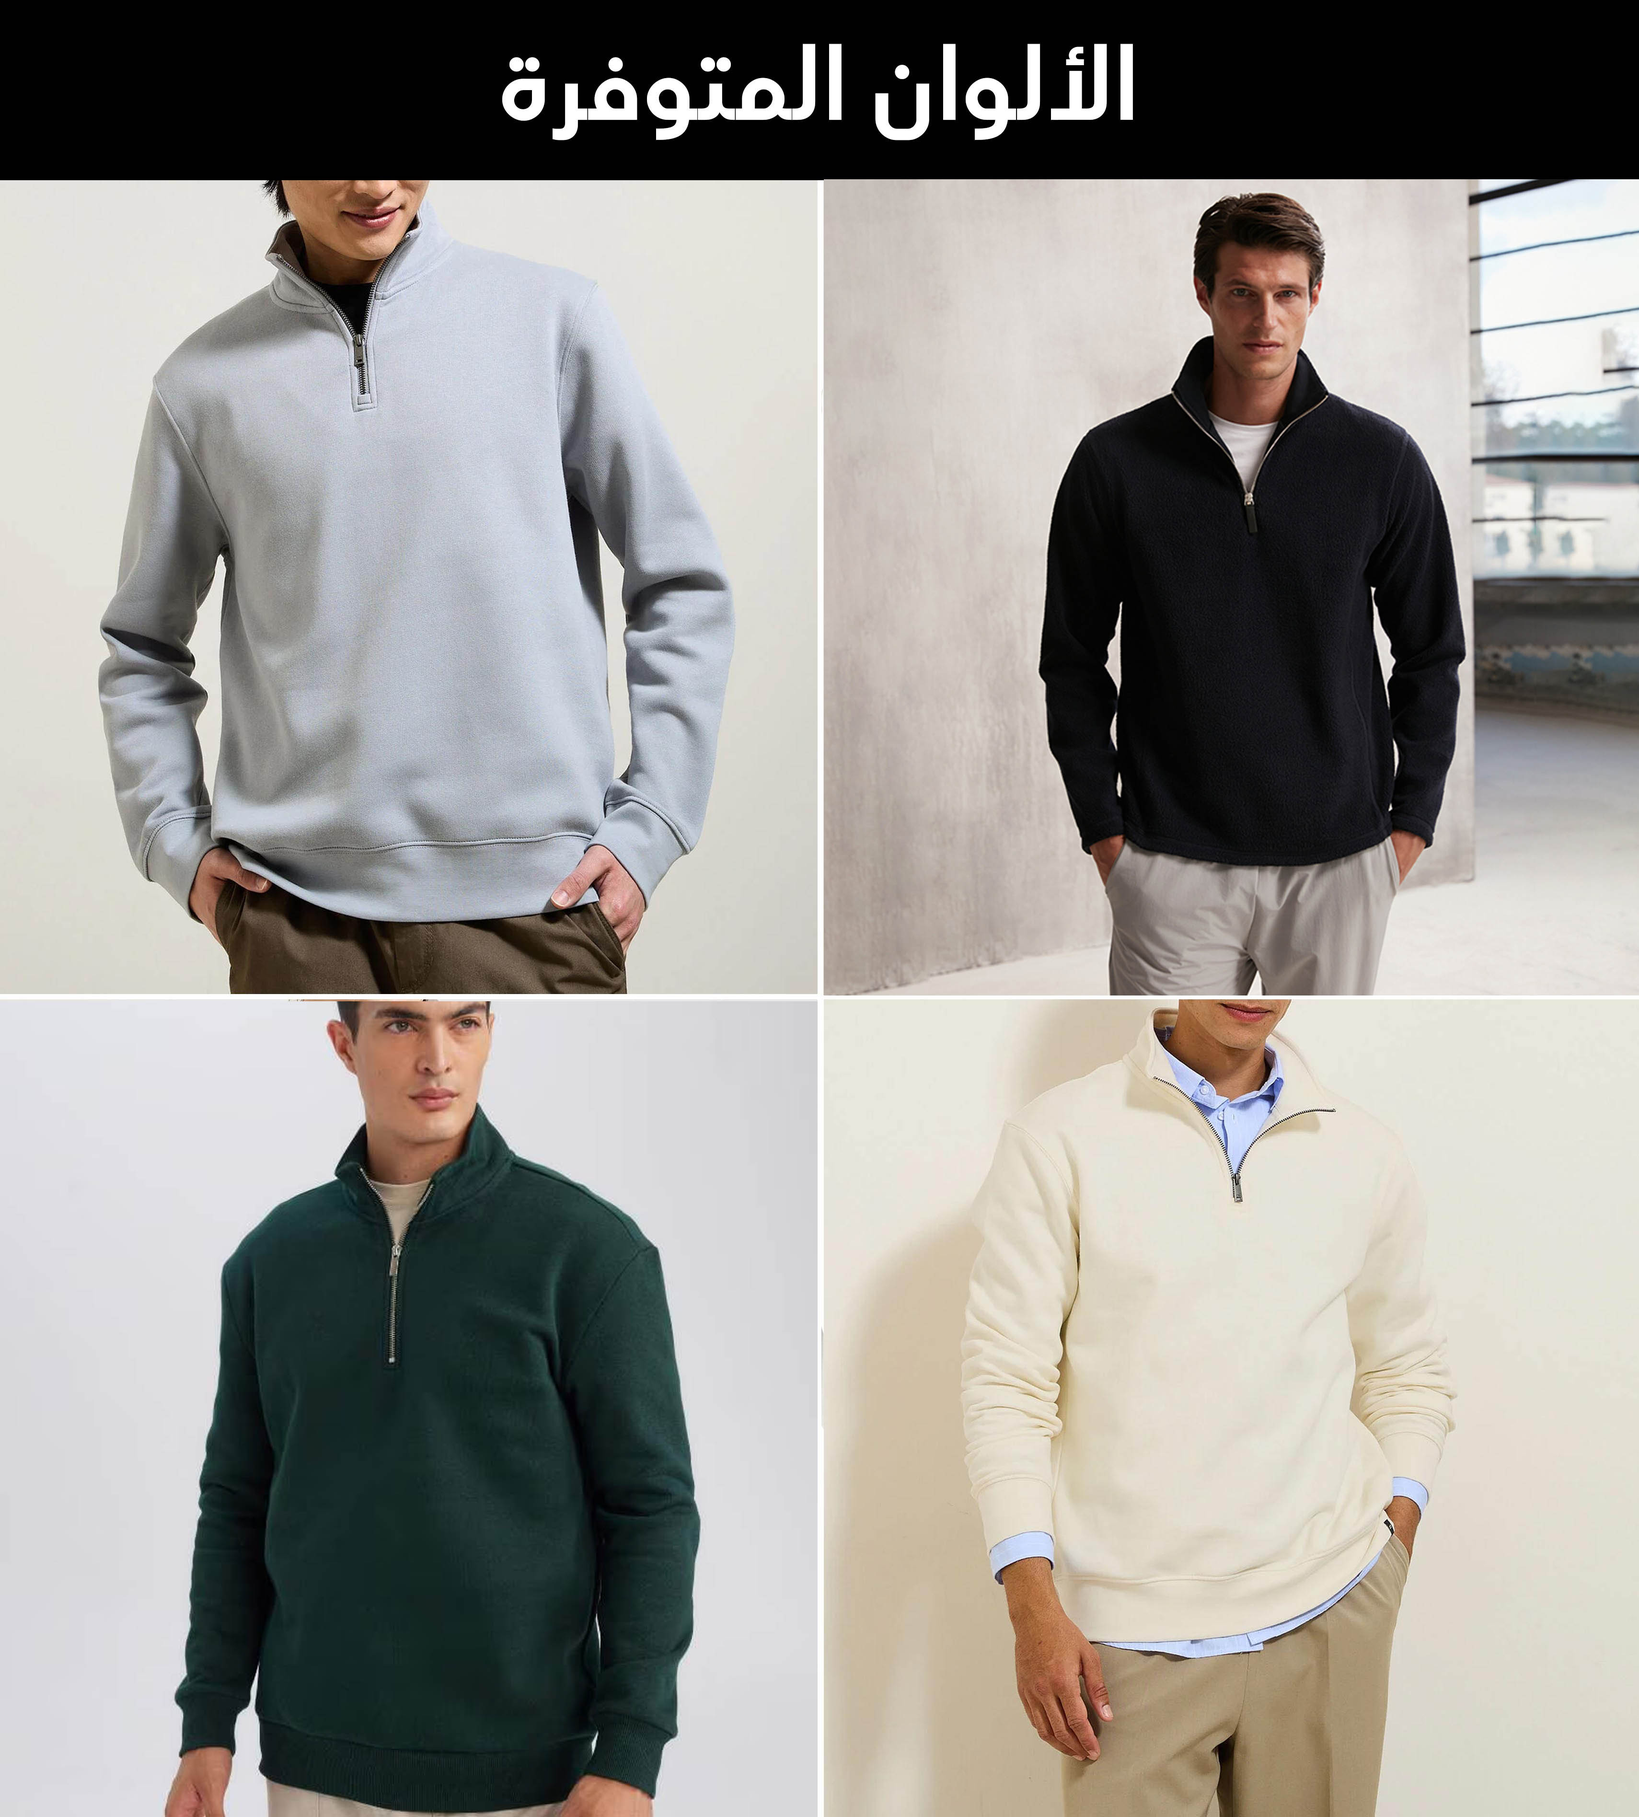
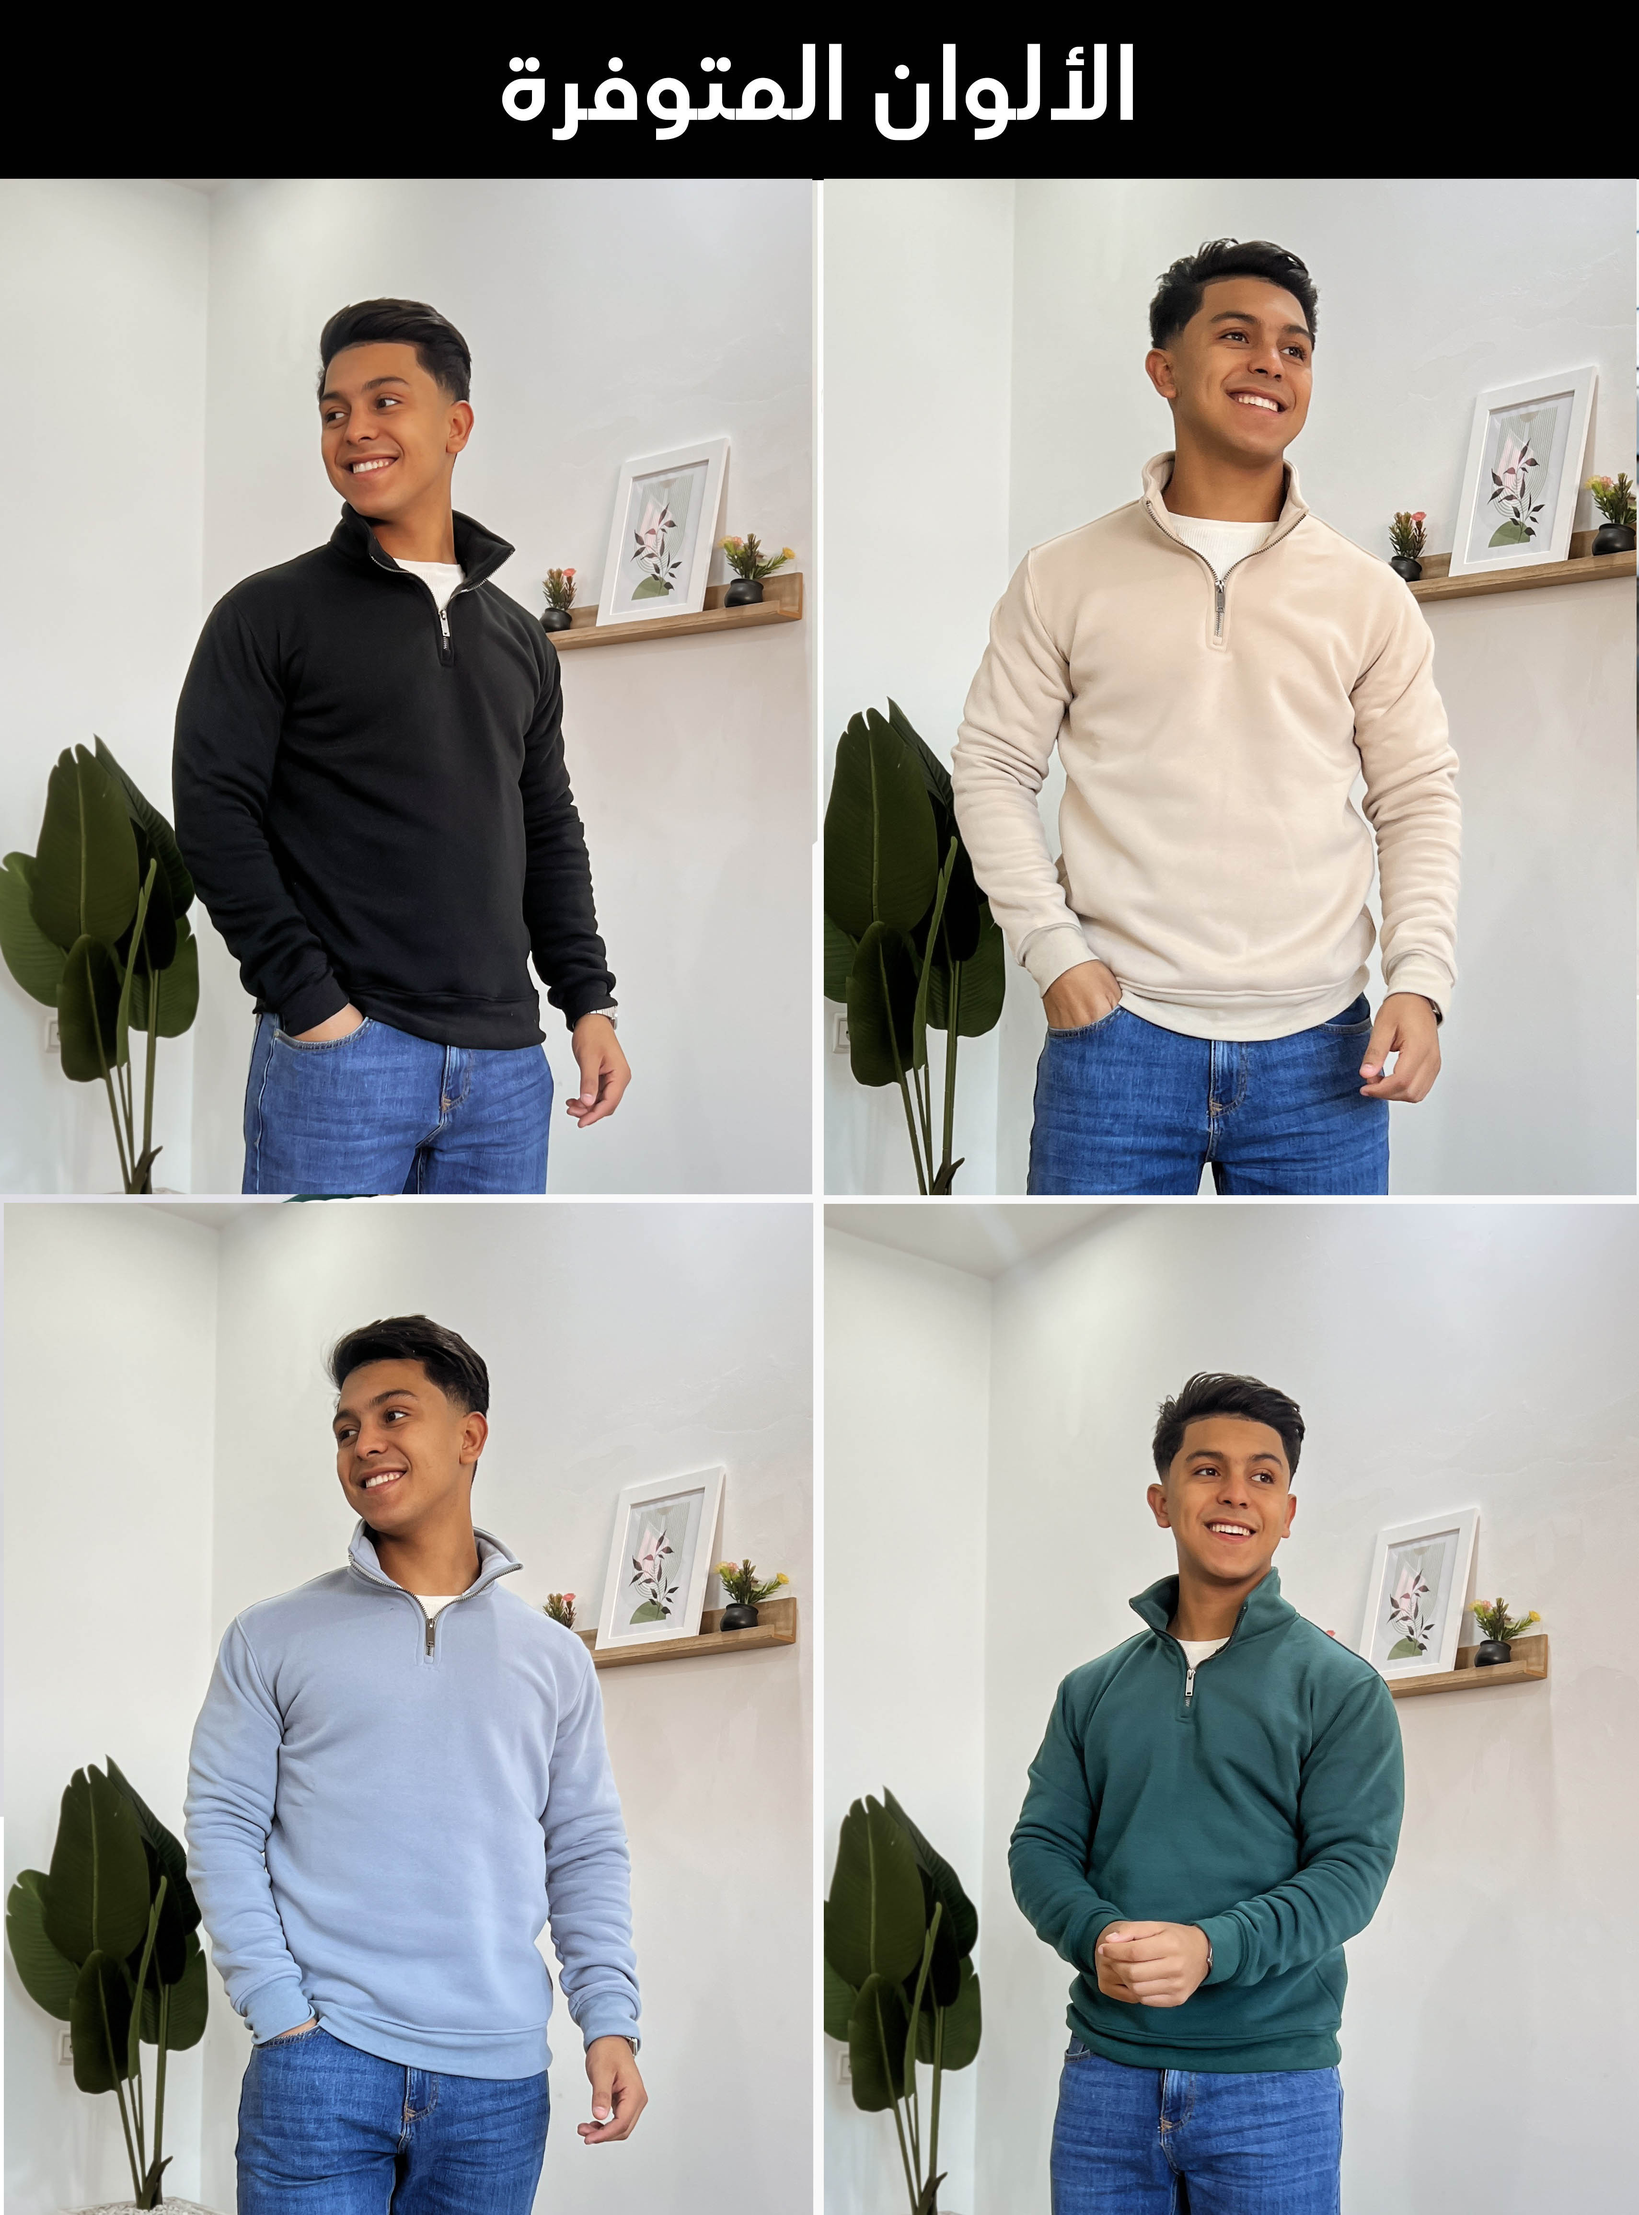
sweatshirt image real update

diff --git a/sweatshirt/index.html b/sweatshirt/index.html
@@ -525,46 +525,29 @@
                 <div class="slideshow-container">
 
                     <div class="mySlides fade">
-                        <div class="numbertext">1 / 7</div>
-                        <img src="images/ecru3.jpg"
+                        <div class="numbertext">1 / 4</div>
+                        <img src="images/slide1.jpg"
                             style="width:100%">
                     </div>
 
                     <div class="mySlides fade">
-                        <div class="numbertext">2 / 7</div>
-                        <img src="images/ecru1.jpg"
+                        <div class="numbertext">2 / 4</div>
+                        <img src="images/slide2.jpg"
                             style="width:100%">
                     </div>
 
                     <div class="mySlides fade">
-                        <div class="numbertext">3 / 7</div>
-                        <img src="images/grif2.jpg"
+                        <div class="numbertext">3 / 4</div>
+                        <img src="images/slide3.jpg"
                             style="width:100%">
                     </div>
 
                     <div class="mySlides fade">
-                        <div class="numbertext">4 / 7</div>
-                        <img src="images/grif1.jpg"
+                        <div class="numbertext">4 / 4</div>
+                        <img src="images/slide4.jpg"
                             style="width:100%">
                     </div>
 
-                    <div class="mySlides fade">
-                        <div class="numbertext">5 / 7</div>
-                        <img src="images/gris1.jpg"
-                            style="width:100%">
-                    </div>
-					
-					<div class="mySlides fade">
-                        <div class="numbertext">6 / 7</div>
-                        <img src="images/beige3.jpg"
-                            style="width:100%">
-                    </div>
-					
-					<div class="mySlides fade">
-                        <div class="numbertext">7 / 7</div>
-                        <img src="images/beige1.jpg"
-                            style="width:100%">
-                    </div>
 
 
 
@@ -588,6 +571,7 @@
                 <div class="container">
                     <!-- <img src="https://cdn.shopify.com/s/files/1/0823/3821/8305/files/couleurs.jpg?v=1705182395" alt="Image description"> -->
                     <img src="images/couleurs.jpg" alt="Image description">
+					<img src="images/detail.jpg" alt="Image description">
                 </div>
 
 
